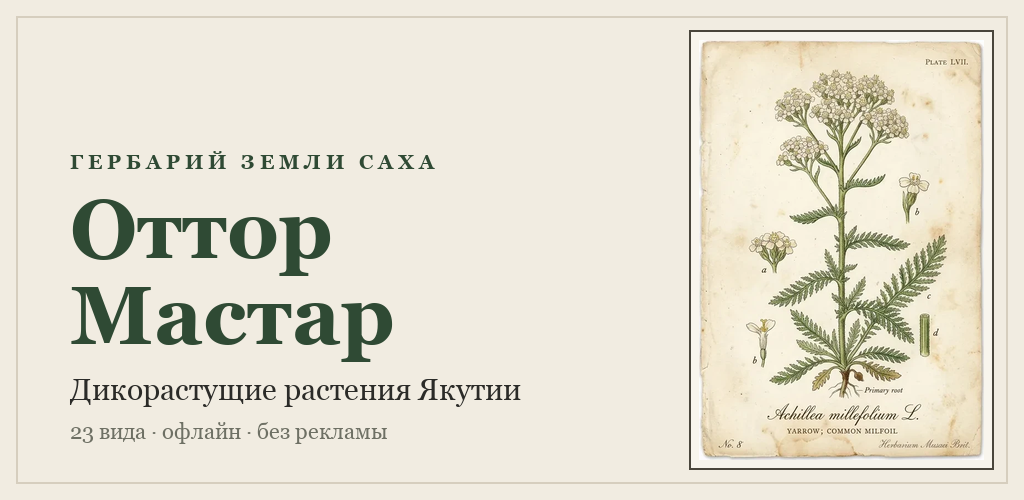
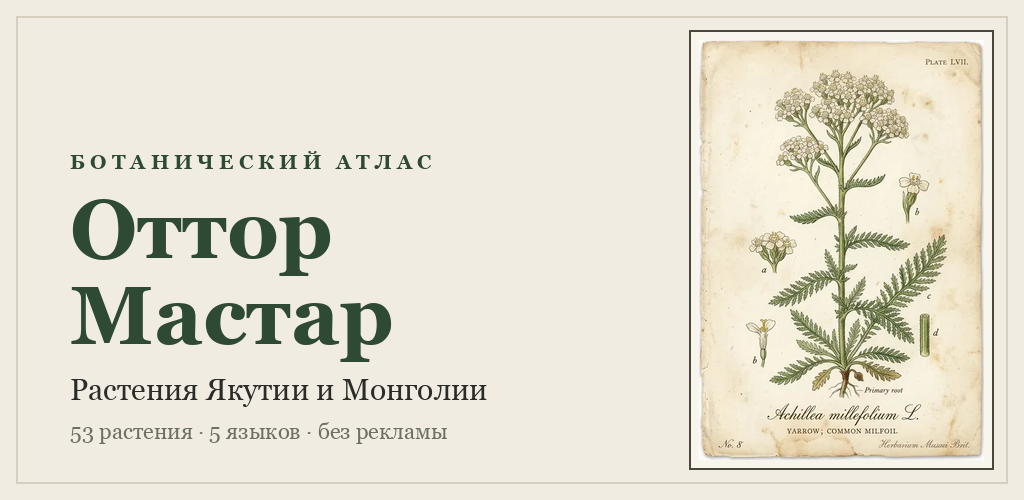
Submit latest 53-plant Ottor Android beta

diff --git a/scripts/make-feature-graphic.py b/scripts/make-feature-graphic.py
@@ -46,7 +46,7 @@ f_sub = ImageFont.truetype(SERIF, 30)
 f_tag = ImageFont.truetype(SERIF, 22)
 
 # overline (letter-spaced)
-over = "Г Е Р Б А Р И Й   З Е М Л И   С А Х А"
+over = "Б О Т А Н И Ч Е С К И Й   А Т Л А С"
 d.text((x, 150), over, font=f_over, fill=GREEN)
 
 # wordmark
@@ -54,10 +54,10 @@ d.text((x, 182), "Оттор", font=f_word, fill=GREEN)
 d.text((x, 268), "Мастар", font=f_word, fill=GREEN)
 
 # subtitle
-d.text((x, 372), "Дикорастущие растения Якутии", font=f_sub, fill=INK)
+d.text((x, 372), "Растения Якутии и Монголии", font=f_sub, fill=INK)
 
 # tagline
-d.text((x, 418), "23 вида · офлайн · без рекламы", font=f_tag, fill=MUTED)
+d.text((x, 418), "53 растения · 5 языков · без рекламы", font=f_tag, fill=MUTED)
 
 os.makedirs("appstore/play", exist_ok=True)
 out = "appstore/play/feature-graphic-1024x500.png"

diff --git a/docs/STORE_SUBMISSION.md b/docs/STORE_SUBMISSION.md
@@ -9,11 +9,11 @@ Privacy-policy URL for both stores: **https://ottormastar.aulenor.com/legal**
 
 ## Android beta update — 2026-09-27
 
-- Signed Android 1.0.1 (version code 3), compile/target SDK 36, minimum SDK 26.
+- Signed latest Android 1.1.0 (version code 4), compile/target SDK 36, minimum SDK 26. It includes current main catalog (53 plants), new branding and community News.
 - Android presents botanical reference content; medicinal sections, filters, badges, search content and introduction copy are disabled. Shared web and iOS content is unchanged.
-- Release lint, APK and AAB builds passed. The signed APK installed and launched on qa_pixel; catalog navigation was checked on the emulator.
-- Google Play internal release is available to the dedicated internal tester list. The closed Alpha release uses build 3 and the dedicated Ottor Mastar Google Group; countries and store metadata are prepared for review.
-- IARC rating, privacy URL, no-ads/no-financial/no-health declarations, no-data-collected form, Russian listing and genuine native phone screenshots have been completed in Play Console. AI-generated botanical illustrations are disclosed in store assets.
+- Latest release lint, APK and AAB builds passed; lint has zero errors and 31 warnings. APK/AAB signatures verified. There are no release unit-test sources. The signed APK installed and launched on qa_pixel; the 30-plant Mongolia catalog, botanical detail and News were checked, and four genuine screenshots captured.
+- Google Play internal build 4 is available at 12:07 local time on September 27. Closed Alpha build 3 and the initial listing were approved earlier that day. The latest build 4 and four listing changes are submitted as the next closed-beta update: automatic quick checks have passed and Publishing overview states Your changes are now in review. The dedicated Google Group uses user-approved public joining, with member emails restricted to owners/managers.
+- IARC rating, privacy URL, no-ads/no-financial/no-health declarations, no-data-collected form, Russian 53-plant listing, current brand icon/feature graphic and four genuine native phone screenshots have been completed in Play Console. AI-generated botanical illustrations are disclosed in store assets.
 - Public production access still requires Google's closed-test eligibility and review. Internal availability is not production approval.
 - Signing keys, keystore properties, generated bundles and screenshots remain outside Git.
 

diff --git a/appstore/play/LISTING.md b/appstore/play/LISTING.md
@@ -1,4 +1,12 @@
-# Google Play listing — Ottor Mastar (v1.0, versionCode 1)
+# Google Play Android beta listing — 1.1.0 (4)
+
+The Android beta is a botanical reference with 53 plants: 23 from Yakutia and 30 from Mongolia. Medicinal-use sections, categories and search content are disabled on Android. The shared website and iOS retain their own content.
+
+Category: Education. No ads, accounts, tracking or financial features. Target audience 13+. IARC questionnaire completed in Play Console: Everyone / PEGI 3. App content declares no health features and no data collected or shared. Android 4 bundles the catalog and community news, with optional public catalog/news updates and full-resolution images from the app's own site.
+
+The live Russian listing is maintained in Play Console; illustrations are identified as AI-generated and are not medical guidance or a reliable basis for consuming wild plants. Genuine emulator screenshots are used for Android. Production access is separate from beta approval.
+
+# Historical first-build listing (superseded)
 
 Paste-ready for Play Console. Package `com.aulenor.ottormastar` (matches iOS bundle).
 Free, no ads, no IAP. Category: **Education**.
